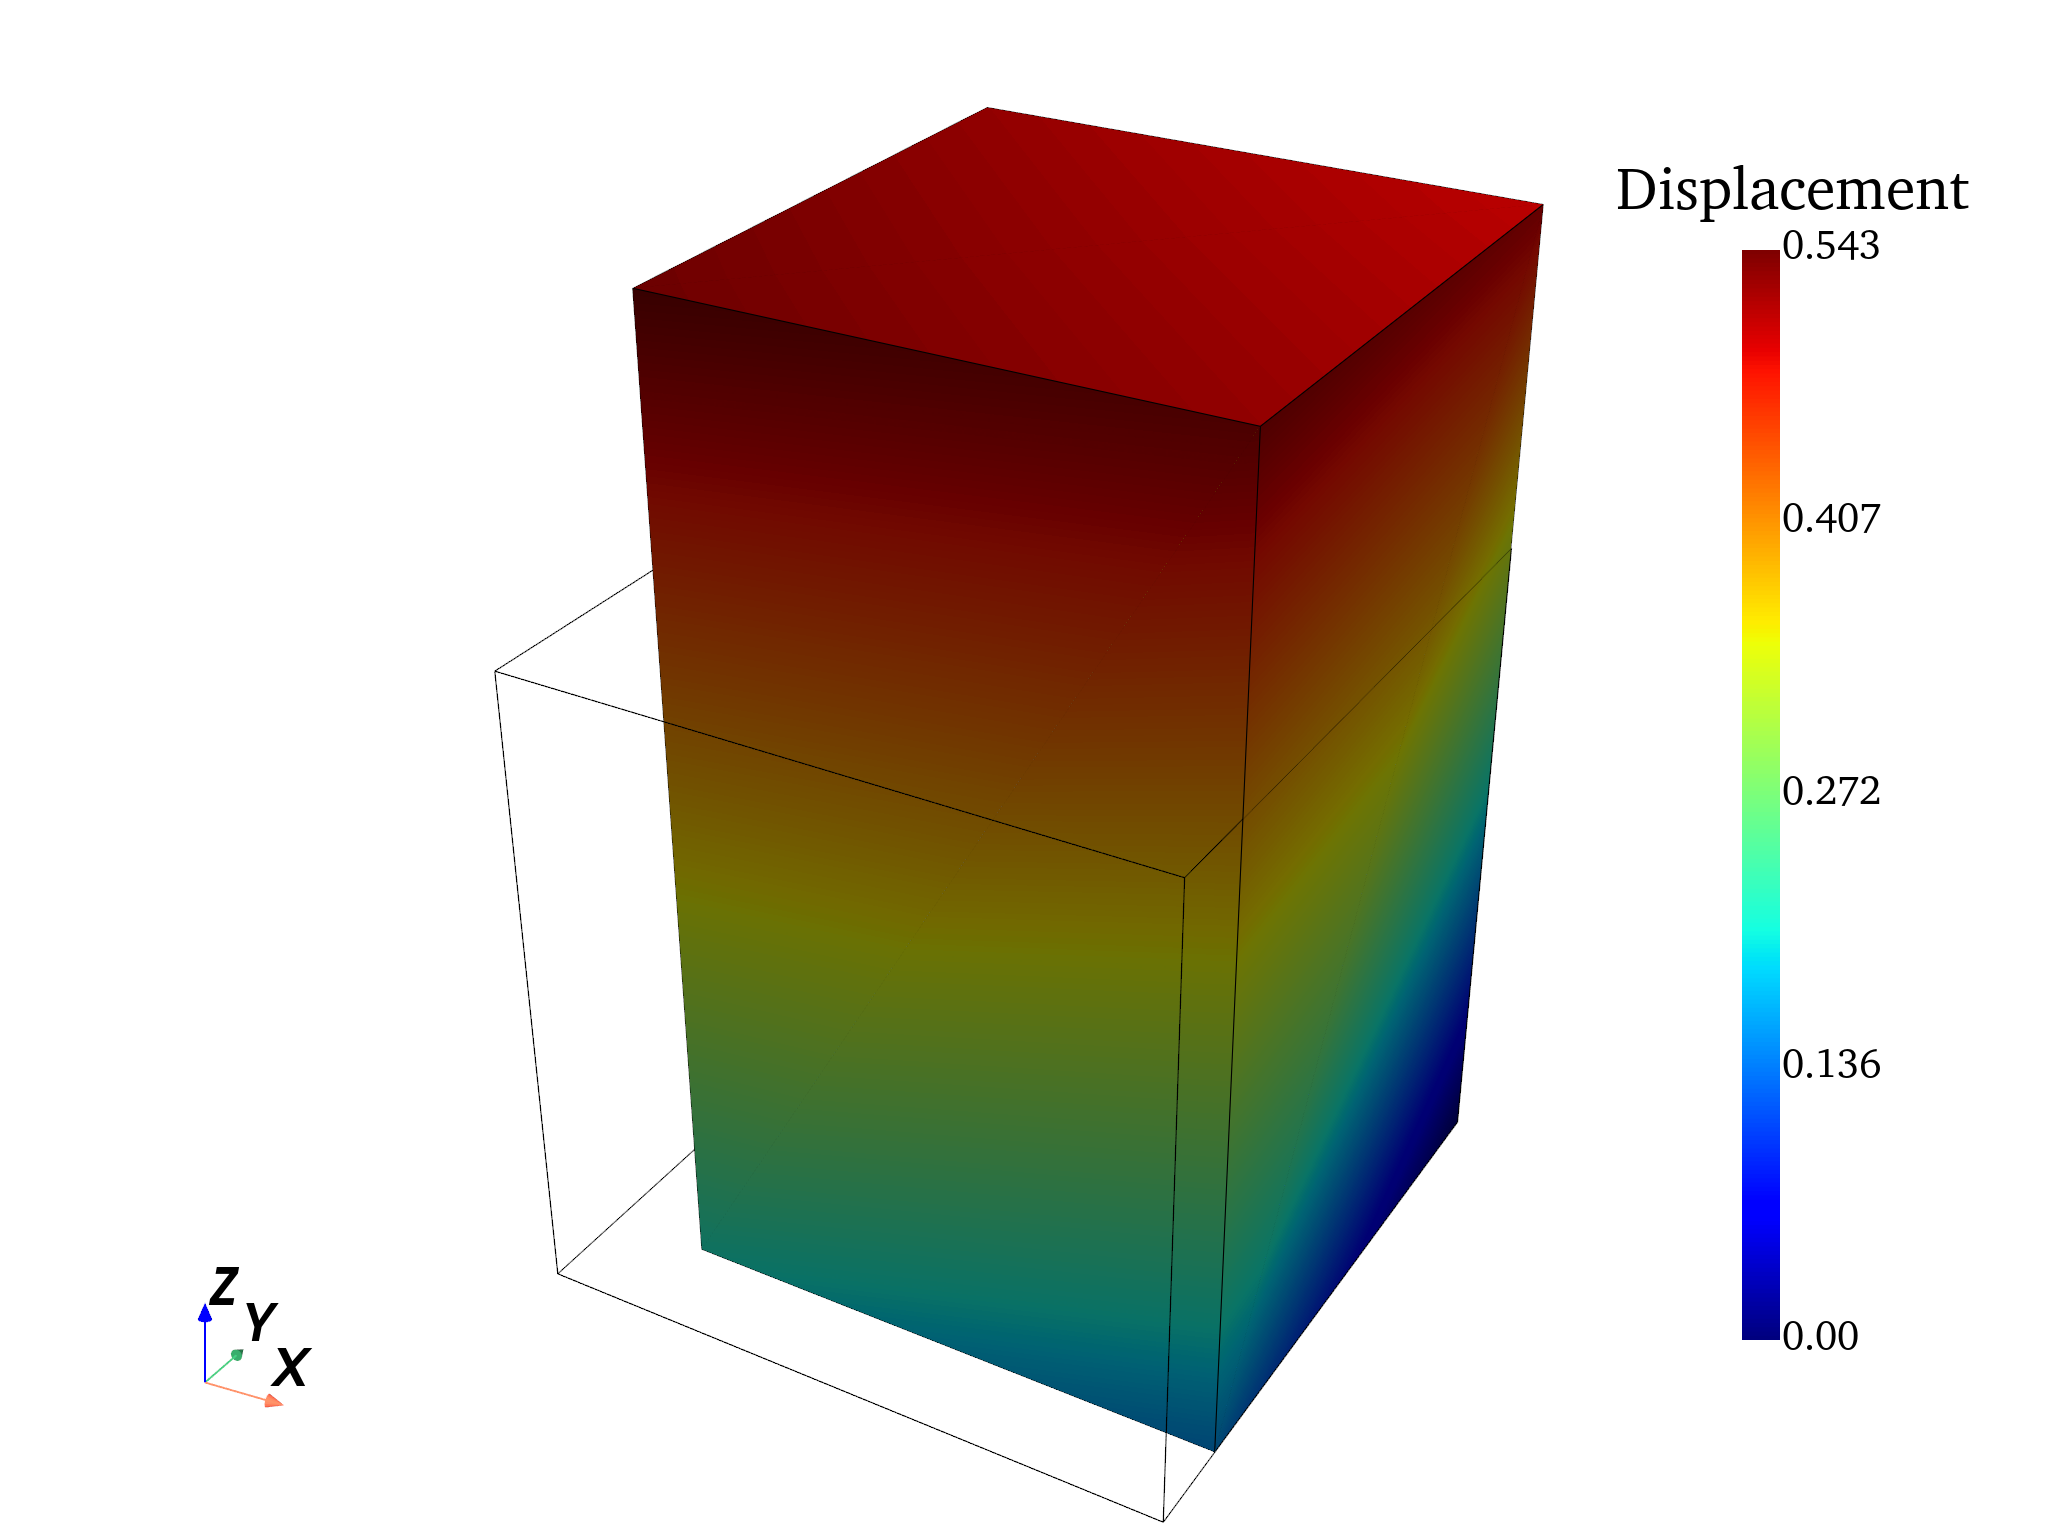
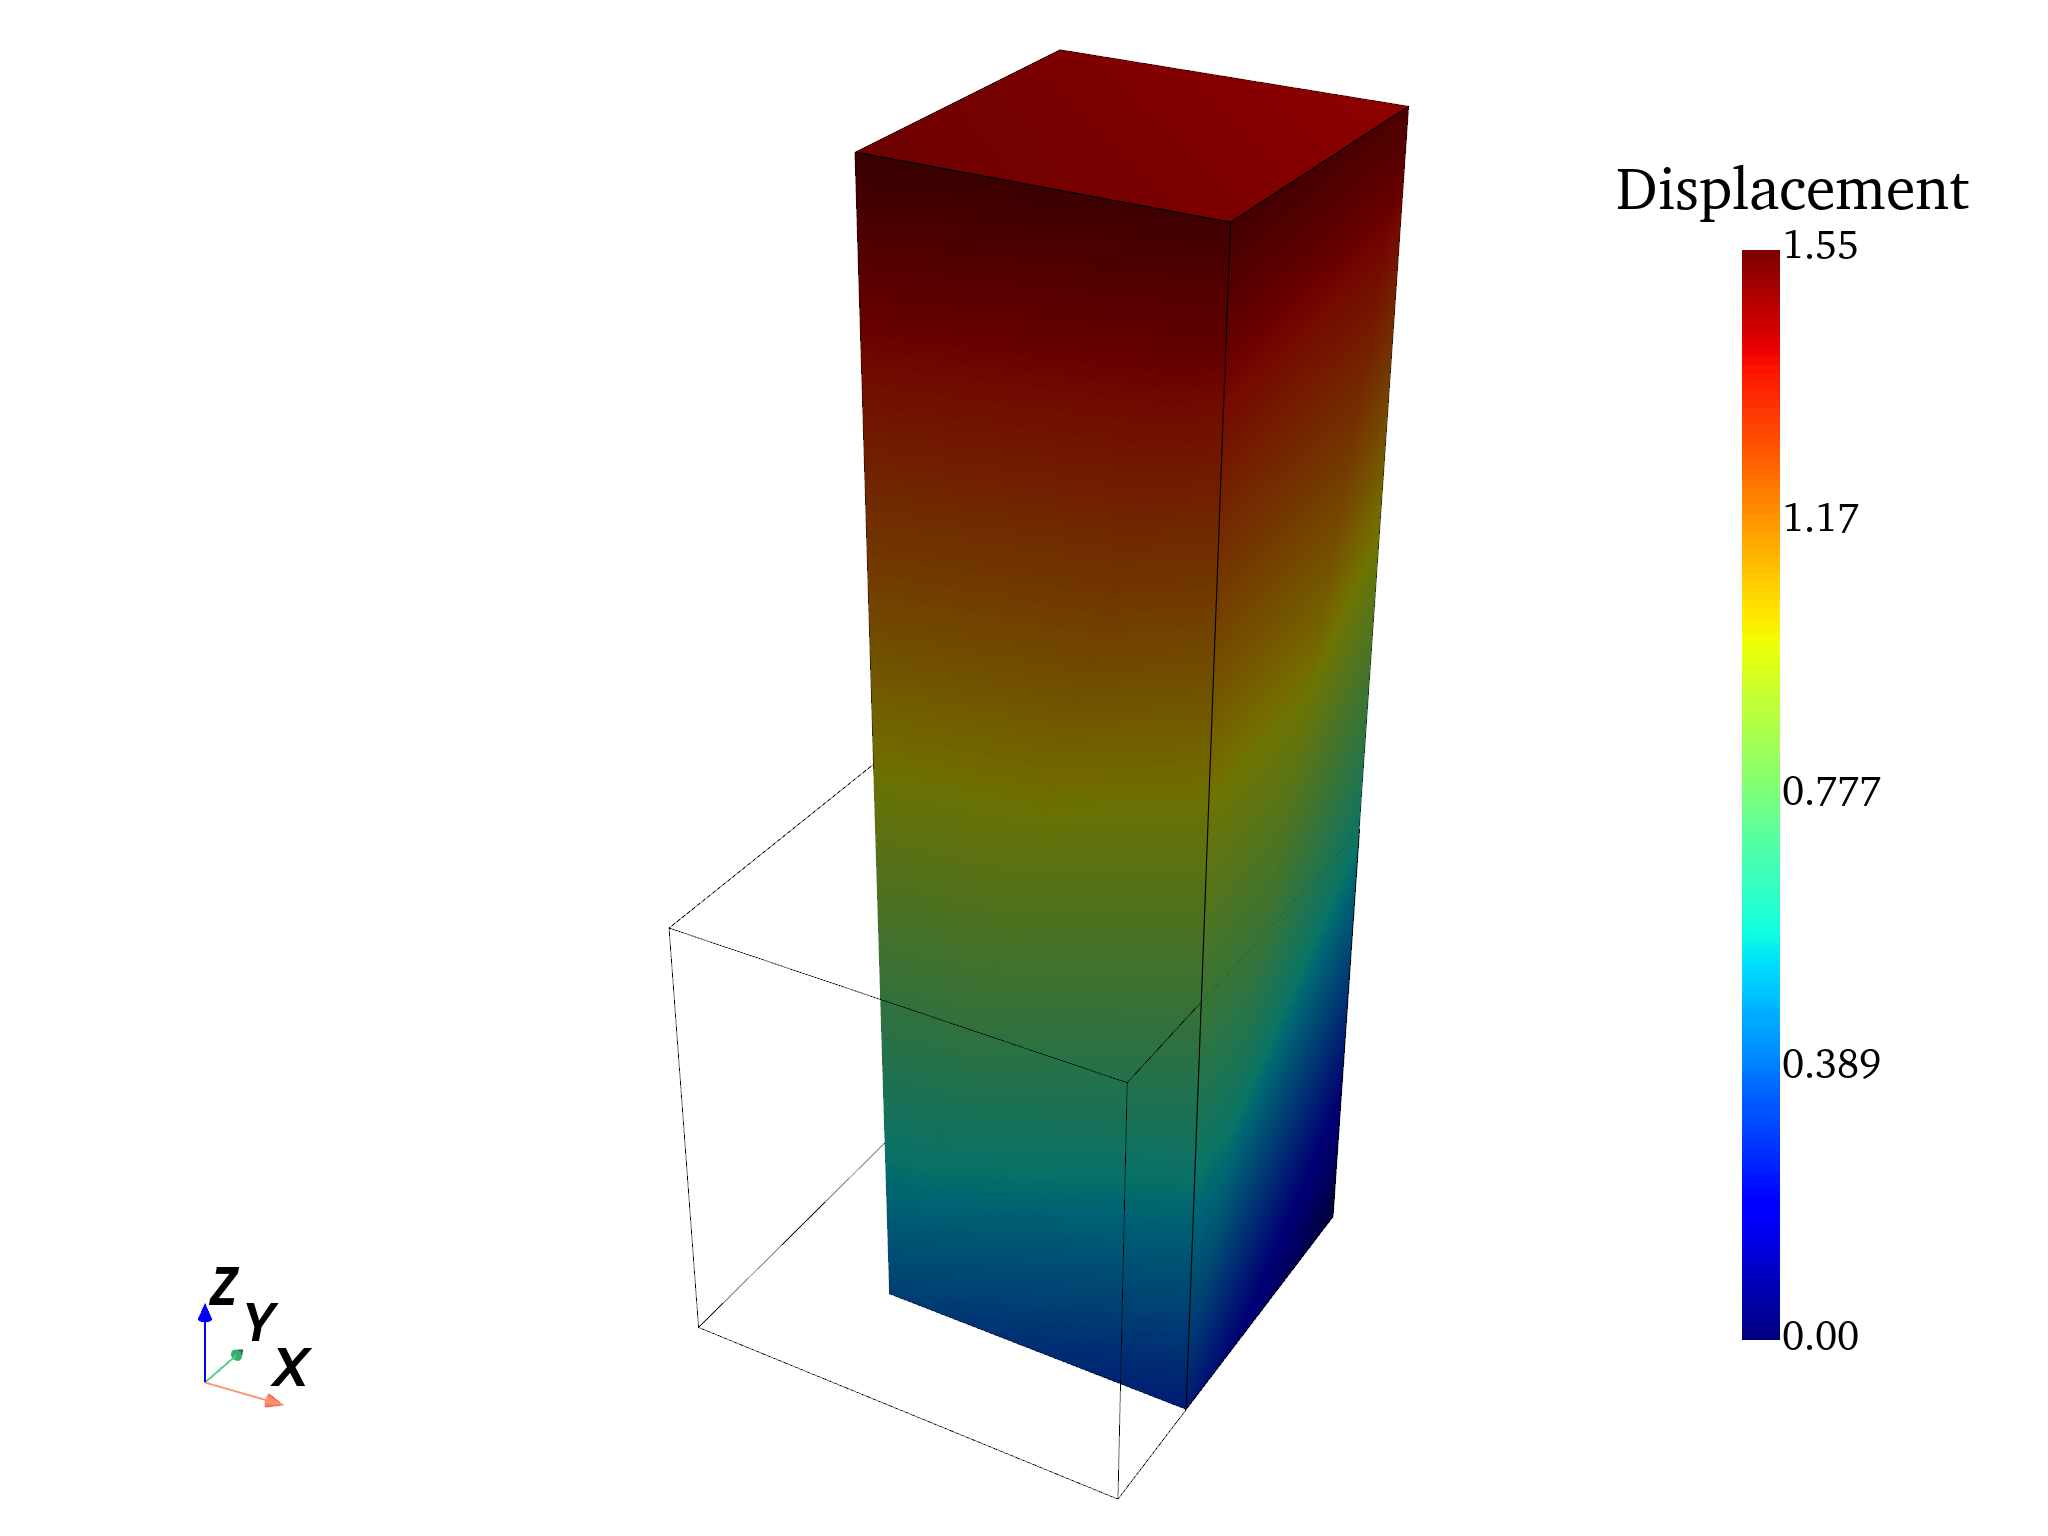
Continue Hyperelasticity theory

diff --git a/UnitCube/HyperElasticity/Compressible.py b/UnitCube/HyperElasticity/Compressible.py
@@ -27,12 +27,12 @@ from dolfinx import io, fem, mesh, plot
 from dolfinx.nls.petsc import NewtonSolver
 from dolfinx.fem.petsc import NonlinearProblem
 
-sys.path.append(str(Path(__file__).parents[1]))
+sys.path.append(str(Path(__file__).parents[2]))
 from Utils import Time
 
 #%% Define functions
 
-def NeoHookean(Nu, Mu, u):
+def NeoHookean(Nu, Mu, Lambda1):
 
     """
     Computes uniaxial stress using Neo-Hookean strain energy density function.
@@ -40,13 +40,32 @@ def NeoHookean(Nu, Mu, u):
     Parameters:
     Nu (float): Poisson's ratio.
     Mu (float): Shear modulus.
-    u (ufl.Expr): The displacement field.
+    Lambda1 (float): The elongation ratio.
     
     Returns:
     float: The Neo-Hookean uniaxial stress.
     """
 
-    return Mu*u**(-2*Nu)*u**((8/3)*Nu - 10/3)*(u**(4*Nu + 4) - 1)
+    return Mu*Lambda1**(-2*Nu)*(Lambda1**(4*Nu + 4) - 1)/Lambda1**2
+
+def NeoHookean(C1, J, Lambda1):
+
+    """
+    Computes uniaxial stress using Neo-Hookean strain energy density function.
+    
+    Parameters:
+    Nu (float): Poisson's ratio.
+    Mu (float): Shear modulus.
+    Lambda1 (float): The elongation ratio.
+    
+    Returns:
+    float: The Neo-Hookean uniaxial stress.
+
+    Reference:
+    https://en.wikipedia.org/wiki/Neo-Hookean_solid
+    """
+
+    return 2*C1/J**(5/3) * (Lambda1**2 - J/Lambda1)
 
 def BoundaryVertices(Mesh):
 
@@ -110,13 +129,14 @@ def PlotResults(V,uh):
 def Main():
 
     # Test definition
-    IniS = 1                                           # Initial state (-)
-    FinS = 1.5                                         # Final state/stretch (-)
-    NumberSteps = 10                                   # Number of steps (-)
+    IniS = 0.5                                           # Initial state (-)
+    FinS = 2.5                                         # Final state/stretch (-)
+    NumberSteps = 20                                   # Number of steps (-)
     DeltaStretch = round((FinS-IniS)/NumberSteps,3)    # Stretch step (-)
+    Streches = np.round(np.arange(IniS,FinS+DeltaStretch,DeltaStretch),1)
 
     # Generate mesh
-    Mesh, CellTags, Classes = io.gmshio.read_from_msh('Cube.msh', comm=MPI.COMM_WORLD, rank=0, gdim=3)
+    Mesh, CellTags, Classes = io.gmshio.read_from_msh('../Cube.msh', comm=MPI.COMM_WORLD, rank=0, gdim=3)
     Area = 1 * 1
     Height = 1
 
@@ -149,7 +169,7 @@ def Main():
     J = ufl.variable(ufl.det(F))
 
     # Stored strain energy density (compressible neo-Hookean model)
-    Psi = (Mu / 2) * (Ic - 3) - Mu * ufl.ln(J) + (Lambda / 2) * (ufl.ln(J))**2
+    Psi = (Mu / 2) * (Ic - 3) - Mu * ufl.ln(J) + (Lambda / 2) * (J-1)**2
 
     # Hyper-elasticity
     P = ufl.diff(Psi, F)
@@ -195,10 +215,11 @@ def Main():
 
     # Solve for all loadcases
     Data = pd.DataFrame()
-    for t in range(NumberSteps+1):
+    Js = np.zeros(NumberSteps)
+    for t, Strech in enumerate(Streches):
 
         # Update displacement
-        Displacement = t * DeltaStretch * Height
+        Displacement = (Strech-1) * Height
         u1.value = Displacement
 
         # Solve problem
@@ -216,11 +237,21 @@ def Main():
         P33 = Stress.eval(PETSc.ScalarType((0.5,0.5,0.5)),0)[8]
         Force = P33 * Area
 
+        # Compute volume change
+        Je = ufl.FiniteElement(ElementType, Mesh.ufl_cell(), 1)
+        Jf = fem.FunctionSpace(Mesh, Je)
+        Expression = fem.Expression(J, Jf.element.interpolation_points())
+        Vc = fem.Function(Jf)
+        Vc.interpolate(Expression)
+        Vc.name = 'Volume Change'
+        Js[t] = Vc.eval(PETSc.ScalarType((0.5,0.5,0.5)),0)
+
         Data.loc[t,'Displacement'] = Displacement
         Data.loc[t,'Simulation'] = Force
 
     Strain = Data['Displacement'] / Height
-    ModelStress = NeoHookean(Nu, E/(2*(1 + Nu)), Strain+1)
+    # ModelStress = NeoHookean(Nu, E/(2*(1 + Nu)), Strain+1)
+    ModelStress = NeoHookean(E/(2*(1 + Nu))/2, Js, Strain+1)
     Theory = ModelStress / Area
 
     # Plot results

diff --git a/UnitCube/HyperElasticity/Theory.py b/UnitCube/HyperElasticity/Theory.py
@@ -7,7 +7,6 @@ of hyperelastic strain and stress for uniaxial tensile test
 
 __author__ = ['Mathieu Simon']
 __date_created__ = '27-01-2025'
-__date__ = '27-01-2025'
 __license__ = 'GPL'
 __version__ = '1.0'
 
@@ -65,7 +64,7 @@ def Main():
     C1, D1 = sp.symbols(r'C_{1} D_{1}', positive=True)
     C1Function  = Mu / 2
     D1Function  = Mu*Nu / (1 - 2*Nu)
-    Psi_NH = C1 * (J**sp.Rational(-2,3)*I1 - 3) + D1 * (J-1)**2
+    Psi_NH = C1 * (I1 - 3 - 2*sp.ln(J)) + D1 * (J-1)**2
 
     Psis = [Psi_NH]
     Psi  = Psis[0]
@@ -134,8 +133,8 @@ def Main():
     # Store function into python file
     Function = inspect.getsource(NH)
     Function = Function.replace('_lambdifygenerated', 'NeoHookean')
-    Function = Function.replace('Dummy_81','Nu')
-    Function = Function.replace('Dummy_82','Mu')
+    Function = Function.replace('Dummy_91','Nu')
+    Function = Function.replace('Dummy_92','Mu')
     with open('Function.py','w') as F:
         F.write(Function)
 
